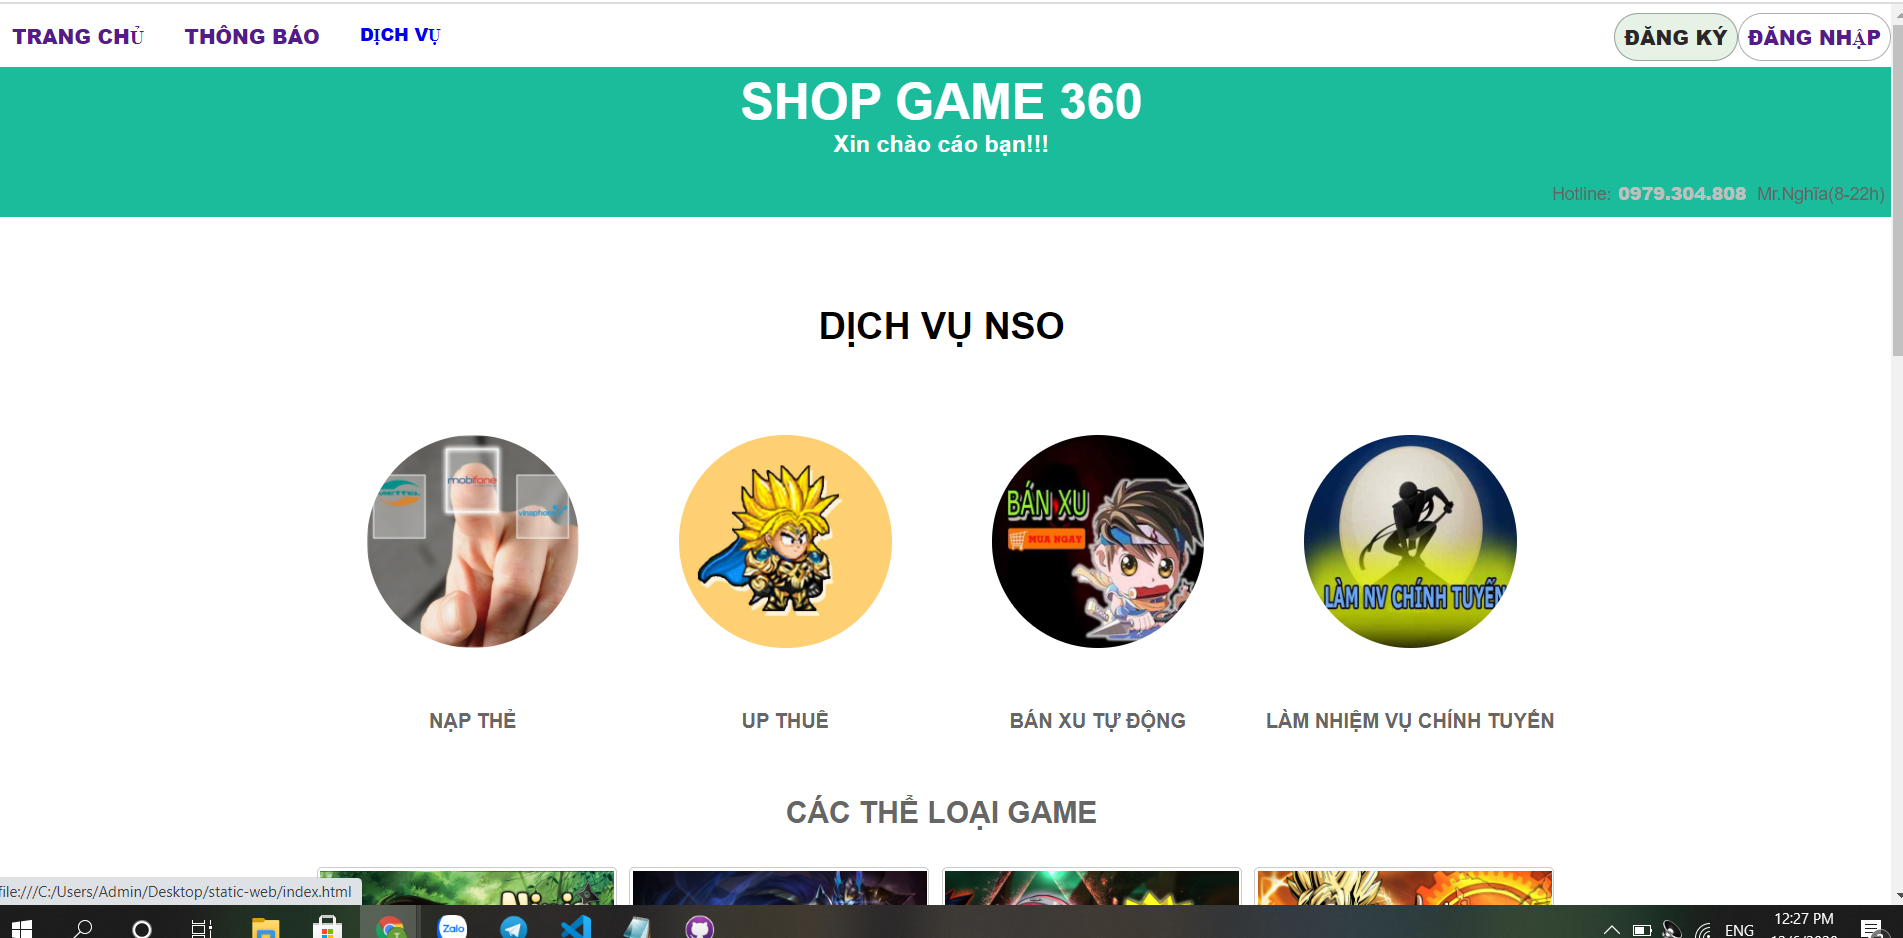
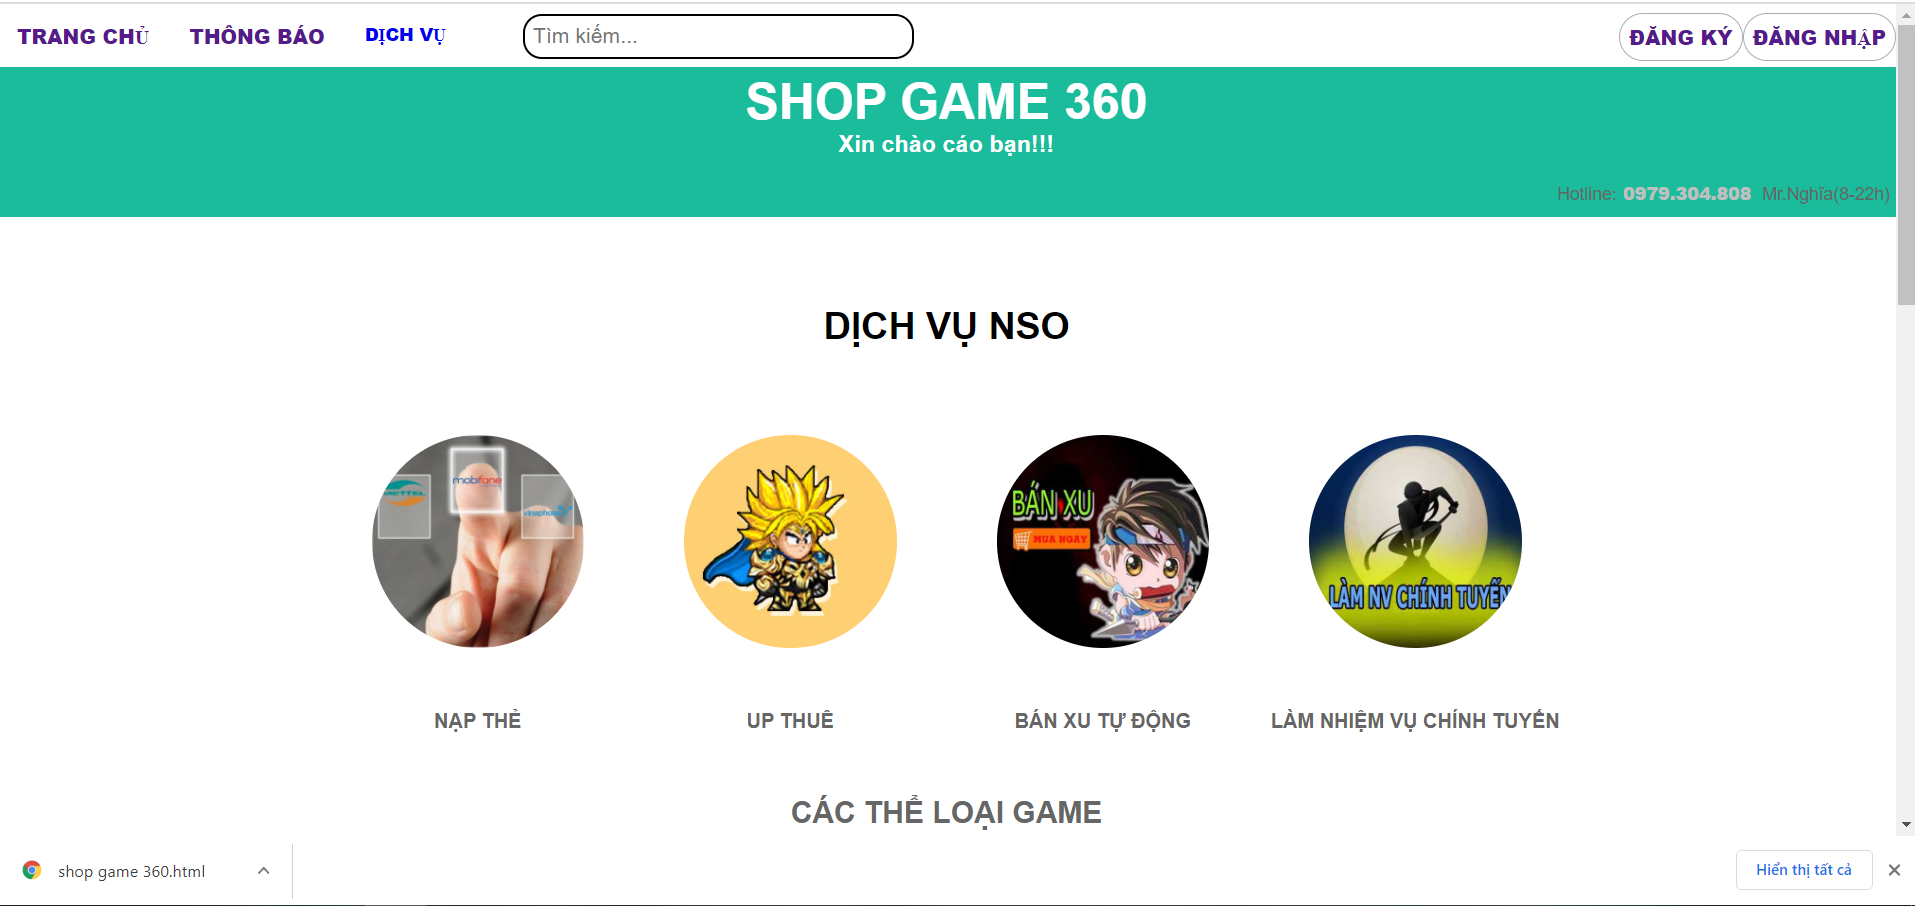
static-web

diff --git a/index.html b/index.html
@@ -24,6 +24,7 @@
                     
                 </div>
             </li>
+            <input type="text" placeholder="Tìm kiếm..."/>
             <li class="work" style="position: relative;float-right;"><a id="uses" style="margin-top: 7px;padding: 7px;border-radius: 25px;border: 1px solid #686868;border-color: rgba(47, 53, 59, 0.4);" href="">ĐĂNG NHẬP</a></li>
             <li class="work"style="position: relative;float-right;"><a id="uses" style="margin-top:7px ;padding: 7px;border-radius: 25px;border: 1px solid #686868;border-color: rgba(47, 53, 59, 0.4);" href="">ĐĂNG KÝ</a></li>
             

diff --git a/css/style.css b/css/style.css
@@ -400,3 +400,24 @@ box-shadow: inset 0 0 5px #000000;
 	  width: 50%;
 	}
   }
+  nav ul input[type=text] {
+	float: left;
+	padding: 6px;
+	padding-right: 90px;
+	margin-top: 8px;
+	margin-left: 46px;
+	border: 2px solid black;
+	border-radius: 15px;
+	font-size: 17px;
+  }
+   
+  @media screen and (max-width: 600px) {
+	nav ul a, nav input[type=text] {
+	  float: none;
+	  display: block;
+	  text-align: left;
+	  width: 100%;
+	  margin: 0;
+	  padding: 14px;
+	}
+  }

diff --git a/README.md b/README.md
@@ -27,6 +27,7 @@
                     
                 </div>
             </li>
+            <input type="text" placeholder="Tìm kiếm..."/>
             <li class="work" style="position: relative;float-right;"><a id="uses" style="margin-top: 7px;padding: 7px;border-radius: 25px;border: 1px solid #686868;border-color: rgba(47, 53, 59, 0.4);" href="">ĐĂNG NHẬP</a></li>
             <li class="work"style="position: relative;float-right;"><a id="uses" style="margin-top:7px ;padding: 7px;border-radius: 25px;border: 1px solid #686868;border-color: rgba(47, 53, 59, 0.4);" href="">ĐĂNG KÝ</a></li>
             
